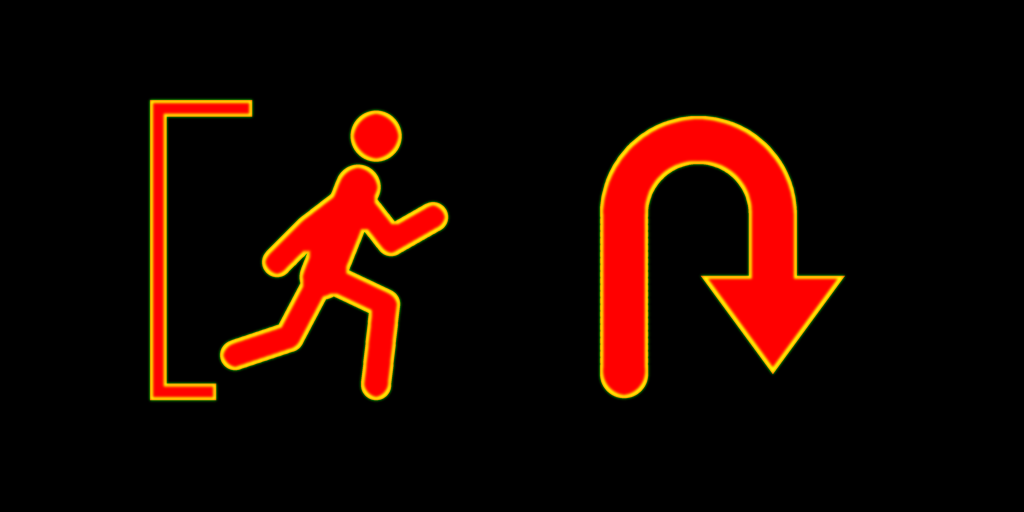
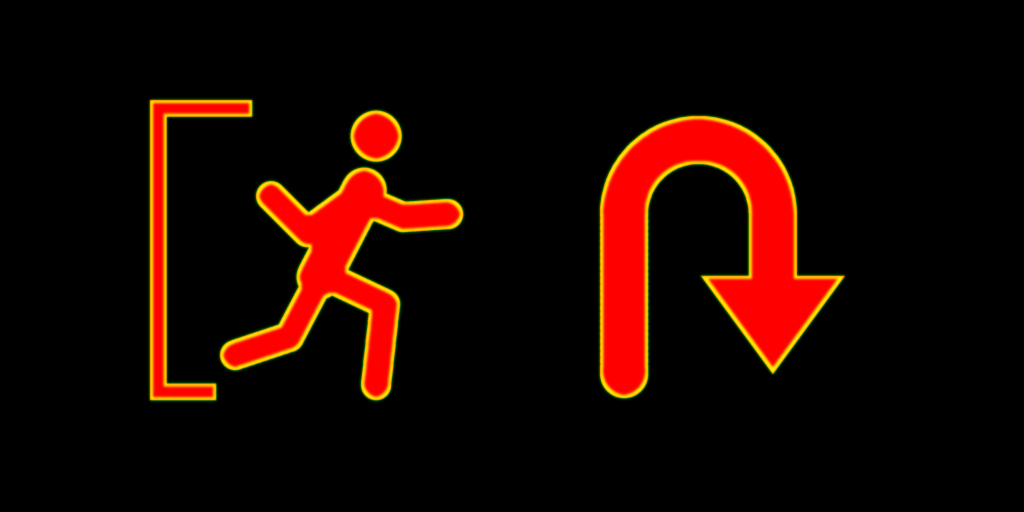
The figure on the way-out signs runs: arm reaching ahead, the other pumped back

Changed region(s): [[0.25, 0.3125, 0.4688, 0.5625], [0.3125, 0.5625, 0.3438, 0.5938]]

diff --git a/tools/textures/make_exit_sign.py b/tools/textures/make_exit_sign.py
@@ -162,8 +162,8 @@ LIMB = 30
 
 def figure(mask, x0, y0):
     """The running figure of the standard sign, in its own box: head, body
-    leaning into the run, the front arm bent forward and up, the back arm
-    swung back, one leg stepping out and the other kicking back, with no
+    leaning into the run, the front arm reaching straight ahead, the back arm
+    pumped back with its forearm up, one leg stepping out and the other kicking back, with no
     feet, as the standard draws it. Stamped with a round pen."""
     layer = Image.new("L", SUPER, 0)
     pen = ImageDraw.Draw(layer)
@@ -178,9 +178,9 @@ def figure(mask, x0, y0):
             path += joining(at(*a), at(*b), 40)
         stroke_path(pen, path, width)
 
-    limb([(0.56, 0.27), (0.44, 0.57)], LIMB * 1.5)            # body
-    limb([(0.56, 0.31), (0.67, 0.45), (0.81, 0.37)])           # front arm, bent up
-    limb([(0.53, 0.31), (0.40, 0.41), (0.29, 0.52)])           # back arm, swung back
+    limb([(0.58, 0.28), (0.43, 0.57)], LIMB * 1.5)            # body, leaning in
+    limb([(0.57, 0.31), (0.71, 0.37), (0.86, 0.36)])           # front arm, reaching ahead
+    limb([(0.54, 0.31), (0.39, 0.42), (0.27, 0.30)])           # back arm, pumped back, forearm up
     limb([(0.46, 0.57), (0.65, 0.66), (0.62, 0.93)])           # front leg, no foot
     limb([(0.43, 0.58), (0.33, 0.77), (0.15, 0.83)])           # back leg, no foot
     mask.paste(ImageChops.lighter(mask, layer))
